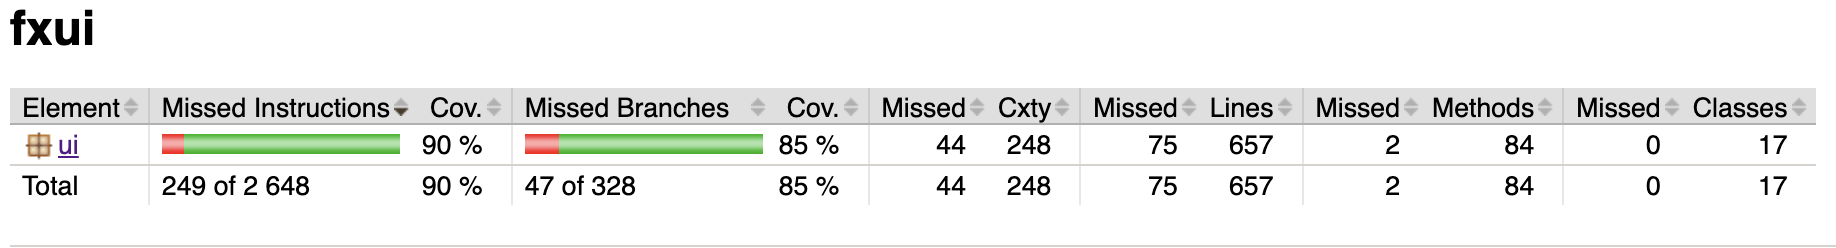
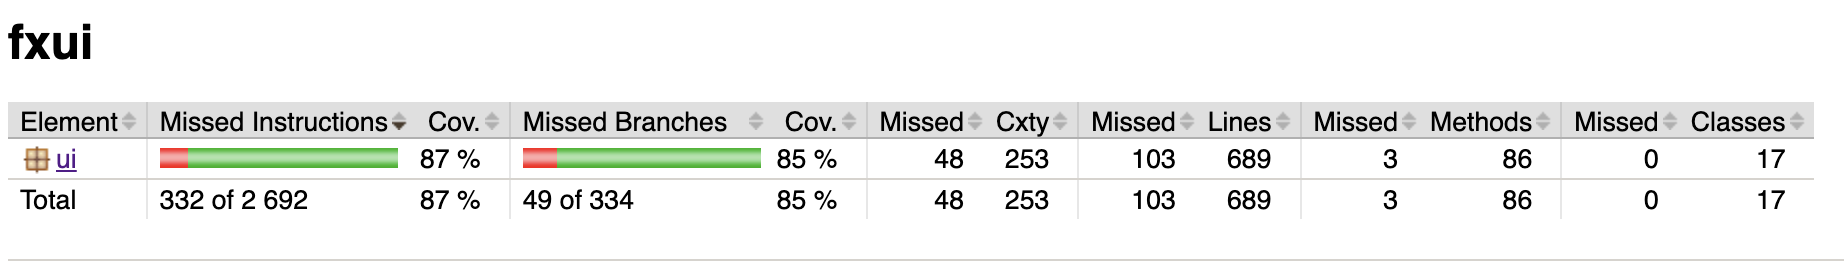
docs(): Correct and revise documentation.
The documentation needed to be revised since changes has been done since we first started writing them. This is part of our final clean up of the project.

#136

diff --git a/docs/release_3/teamwork.md b/docs/release_3/teamwork.md
@@ -2,26 +2,22 @@
 
 ## Planning and Coordination Throughout the Project
 
-At the start of our project, our planning wasn't great. We created issues that were too small, which made many tasks depend on each other. This sometimes slowed us down because we'd get stuck waiting for someone else to finish their part before we could continue. Over time, we learned to group related tasks together and think more carefully about dependencies, which made our workflow much smoother.
+At the start, our planning wasn’t ideal. We created issues that were too small, causing many dependencies and slowing progress as we often had to wait for others to finish. Over time, we learned to group related tasks and plan dependencies better, which made our workflow smoother.
 
-We also learned how important it is to write good issue and pull request descriptions. At first, we didn't see the point, but we quickly realized that clear descriptions help us work much more efficiently. We don't have to constantly ask each other what needs to be done or what's already finished, especially when we're working from different places. We even created templates for issues and pull requests to keep everything consistent.
+We also realized how important clear issue and pull request descriptions are. Initially, we didn’t prioritize them, but soon saw how they improved efficiency and reduced confusion, especially when working remotely. To stay consistent, we created templates for both.
 
-Our team works much better when we organize tasks around pair programming. This approach is really effective for our group because when we work together, we can help each other solve problems and write better code. We also understand the code better since two people work on each part.
+Pair programming proved highly effective for us. Working in pairs helped solve problems faster, improved code quality, and deepened our understanding of the system since two people shared responsibility for each part.
 
-We now meet twice a week to stay coordinated and plan what's coming next. As the project got bigger, it became harder to keep track of all the files and components. We found that writing better JavaDoc comments helped a lot. We also started having each pair give a quick update about what they've accomplished at the start of our meetings. This way, when we're assigning new tasks, we don't waste time trying to figure out what everyone else has been working on. Between meetings, we use Messenger for quick questions and updates.
+We now meet twice a week to plan and stay aligned. As the project grew, tracking all files and components became challenging, so we improved our JavaDoc comments. Each pair now gives a short update during meetings, keeping everyone informed and simplifying task assignment. Between meetings, we use Messenger for quick questions and updates.
 
 ## Key Learnings from Our Experience
 
-The biggest thing we learned is that good communication is absolutely essential. When we don't communicate well, everything becomes much harder.
+Good communication is essential; when it breaks down, everything slows.
+We learned to size tasks appropriately; issues that are too small create unnecessary dependencies, while grouping related ones improves efficiency.
 
-Breaking down tasks into the right size is crucial. We learned that making issues too small creates unnecessary dependencies and slows down development. Grouping related tasks together and planning dependencies carefully makes the workflow much more efficient.
+Clear documentation saves time and prevents misunderstandings. Using templates, writing good descriptions, and maintaining JavaDoc comments keep everyone aligned.
 
-Good documentation makes a huge difference. Writing clear issue and pull request descriptions, using templates for consistency, and maintaining proper JavaDoc comments saves us tons of time and prevents confusion, especially when working remotely.
+Pair programming reduces mistakes, increases learning, and keeps work flowing.
+Structured meeting updates ensure visibility, while regular meetings and casual communication complement each other.
 
-Pair programming is way better than working alone. We get stuck less often, make fewer mistakes, and learn more from each other.
-
-Having structured updates during meetings is really valuable. When each pair quickly presents what they've accomplished, it keeps everyone informed and makes task delegation much faster.
-
-We found that having regular meetings plus casual communication throughout the week works really well. The meetings keep us organized, and Messenger helps us solve small problems quickly.
-
-This project taught us that good teamwork needs planning, regular communication, and being willing to change how we work when we find better ways to do things.
+Overall, we learned that effective teamwork depends on thoughtful planning, clear communication, and adapting our workflow when better methods emerge.

diff --git a/docs/release_3/release_3.md b/docs/release_3/release_3.md
@@ -79,7 +79,7 @@ Our development approach continued to emphasize pair programming and regular com
 
 ## Code Quality Report
 
-As of this release, the project maintains exceptionally high code quality standards through enhanced tools and practices. For detailed information about our code quality approach, see our [Code Quality](code_quality.md) documentation.
+As of this release, the project maintains high code quality standards through enhanced tools and practices. For detailed information about our code quality approach, see our [Code Quality](code_quality.md) documentation.
 
 Key quality measures include:
 
@@ -119,29 +119,34 @@ The UML documentation provides comprehensive visual representations of the appli
 
 Due to the extensive number of classes across the project, we have organized the class diagrams by module to provide clear, focused views of each architectural layer. Each diagram shows the classes, their attributes and methods, and the relationships between them within that specific module.
 
-The class diagrams follow UML conventions where `+` indicates public visibility, `-` indicates private visibility, and `#` indicates protected visibility. Solid arrows show dependencies and associations, while dashed arrows show interface implementations or usage relationships.
+The class diagrams follow UML conventions where `green cicle` indicates public visibility, `red square` indicates private visibility, and `red filled square` indicates protected visibility. Solid arrows show dependencies and associations, while dashed arrows show interface implementations or usage relationships.
 
 **core**
+
 ![core module class diagram](uml_documentation/screenshots/class_core.png)
 
 The core module contains the fundamental domain models including `Flashcard`, `FlashcardDeck`, `FlashcardDeckManager`, and authentication-related classes like `User`, `UserData`, `LoginValidator`, and `PasswordEncoder`.
 
 **fxui**
+
 ![fxui module class diagram](uml_documentation/screenshots/class_fxui.png)
 
 The fxui module shows all JavaFX controllers and the `ApiClient` that handles REST API communication. This includes controllers for login, signup, main view, deck management, and flashcard learning.
 
 **server**
+
 ![server module class diagram](uml_documentation/screenshots/class_server.png)
 
 The server module illustrates the Spring Boot REST API structure with controllers (`UserController`, `DeckController`, `FlashcardController`) and services (`UserService`, `DeckService`, `FlashcardService`) that implement the business logic.
 
 **shared**
+
 ![shared module class diagram](uml_documentation/screenshots/class_shared.png)
 
 The shared module contains all Data Transfer Objects (DTOs) used for client-server communication, mapper classes for converting between domain objects and DTOs, and API constants and endpoints.
 
 **storage**
+
 ![storage module class diagram](uml_documentation/screenshots/class_storage.png)
 
 The storage module shows the `FlashcardPersistent` class which implements the `UserPersistence` interface and handles JSON-based file storage for user data and flashcards.
@@ -160,6 +165,8 @@ The architecture diagram provides a high-level overview of the system's structur
 
 The sequence diagram illustrates the process that occurs when a user creates a new deck in the application. It shows the chronological order of method calls between objects across different layers of the system:
 The JavaFX controller initiates a request through the ApiClient, which communicates with the REST API (DeckController). The API then uses the DeckService and FlashcardPersistent components to store the new deck in the underlying data storage. Finally, the updated list of decks is retrieved and returned to the client so the user interface can be refreshed.
+
+We deliberately chose not to include an alt (alternative flow) section in our sequence diagram. The purpose of this diagram is to clearly illustrate the main success scenario of the user story, the process of successfully creating a new deck. Including alternative or error-handling paths would have made the diagram significantly more complex and harder to read. Therefore we prioritized a simplified view. The alternative cases (such as failed API calls or invalid input) are still handled in the actual implementation and corresponding test cases but are not shown here to keep the diagram focused and easy to interpret.
 
 ### Package diagram
 

diff --git a/docs/release_3/ai_tools.md b/docs/release_3/ai_tools.md
@@ -2,7 +2,7 @@
 
 ## Our Approach to AI in Development
 
-We used AI as a supportive tool to enhance learning, productivity, and code quality rather than replace our own coding. Most code was written manually, but AI helped with guidance, troubleshooting, and best practices. **GitHub Copilot (Claude Sonnet 4.0)** assisted with dependency management, Maven configuration, testing, generated Javadoc documentation, and bug fixing. **ChatGPT** supported project setup, Java syntax, and GitHub conventions. **Claude AI** improved test organization and configured JaCoCo for coverage reporting. Together, these tools enhanced our workflow and learning throughout the project.
+We used AI as a supportive tool to enhance learning, productivity, and code quality rather than replace our own coding. Most code was written manually, but AI helped with guidance, troubleshooting, and best practices. **GitHub Copilot (Claude Sonnet 4.0)** assisted with dependency management in pom.xml files, Maven configuration, testing, generated Javadoc documentation, and bug fixing. **ChatGPT** supported project setup, Java syntax, and GitHub conventions. **Claude AI** improved test organization and configured JaCoCo for coverage reporting. We also used this to set up JLink and JPackage correctly, since none of the teammembers had experience with these technologies. Together, these tools enhanced our workflow and learning throughout the project.
 
 ## Classes we have used ai in:
 
@@ -11,9 +11,7 @@ We used AI as a supportive tool to enhance learning, productivity, and code qual
 - `PasswordEncoderTest`: Used claude.ai verifying password encoding and matching functionality using JUnit 5. 
 
 **Fxui**
-- `Flashcardcontroller`
-    - `updateprogress()` and `updateUi()`: AI assisted with correct syntax. 
-    - `flipCard()`: AI guided implementation of card rotation. 
+- `Flashcardcontroller` : AI helped correct event-handling syntax and structure methods like `updateUi()` and `flipCard()` for UI updates. In `flipCard()` it was the card rotation functionality we struggled with, where **GitHub Copilot** came to good use. 
 - `FlashcardDeckController`
     - `whenCreateButtonIsClicked()`,  `whenDeleteCardButtonIsClicked()` and `loadDeckData()`: AI helped handle API endpoints and correct syntax. 
 - `ApiClientTest`: AI provided guidance on writing correct tests for API handling. 
@@ -21,17 +19,17 @@ We used AI as a supportive tool to enhance learning, productivity, and code qual
 
 **Server**
 - `UserController`
-    - `loginUser()`: GitHub Copilot generated the method, helping us understand the required login logic.
+    - `loginUser()`: **GitHub Copilot** suggested initial login logic and validation patterns.
 - `DeckControllerTest`, `FlashcardControllerTest`, `UserControllerTest`: Claude AI assisted in comprehensive test coverage.
 - `FlashcardServiceTest` and `UserServiceTest`:
     - `testGetFlashcard()`, `testGetFlashcardThrows()` and `testCreateUserWithValidation()`: AI assisted in generating tests for thorough coverage and handling mocking. 
 
 **Shared**
-- `UserMapper`: AI was used to assist in implementing the complex UserMapper code, helping with difficult logic. 
+- `UserMapper`: AI was used to assist in implementing the complex UserMapper code, by clarifying complex mapping between domain and DTO objects. 
 - `FlashcardDeckMapperTest`, `FlashcardMapperTest`, `UserMapperTest`: AI assisted with generating tests and handling mapper syntax for tests.
 
 **Storage**
 - `Flashcardpersistent`:
     - `readUserDataInternal()` and `writeUserDataInternal()`: AI guided logic for reading and writing to user data. 
 - `FlashcardPersistentTest`: 
-    - `cleanup()`: AI helped efficiently handle deletion of multiple test user files. 
+    - `cleanup()` : AI helped efficiently handle deletion of multiple test user files. 

diff --git a/docs/release_3/sustainability.md b/docs/release_3/sustainability.md
@@ -88,8 +88,8 @@ Each user has their own file (like `julie.json`):
       {
         "deckName": "Spanish Vocabulary",
         "flashcards": [
-          {"number": 1, "question": "Hello", "answer": "Hola"},
-          {"number": 2, "question": "Goodbye", "answer": "Adiós"}
+          { "number": 1, "question": "Hello", "answer": "Hola" },
+          { "number": 2, "question": "Goodbye", "answer": "Adiós" }
         ]
       }
     ]
@@ -107,7 +107,7 @@ CREATE TABLE users (
     password VARCHAR(255)
 );
 
--- Decks table  
+-- Decks table
 CREATE TABLE decks (
     id INT PRIMARY KEY,
     user_id INT,
@@ -188,6 +188,27 @@ Instead of everything in one JavaFX app, we split it:
 - Use full-screen mode on laptop for better focus
 - Switch between devices and pick up where they left off
 - App automatically adapts to their screen size and device type
+
+## SUAS Analysis
+
+The Sustainability Awareness Diagram below maps how our decisions when making the app create ripple effects across social, economic, environmental, technical and individual dimensions. This analysis helps us understand both the positive impacts we want to maximize and the negative consequences we need to mitigate as we scale.
+
+<img src="../../images/sustainability/susAd.png" alt="SUAS Sustainability Analysis Diagram" width="600">
+
+
+
+| ID  | Effect                                                                      | Sustainability Dimension | Level     | Affects    | Affected by |
+| --- | --------------------------------------------------------------------------- | ------------------------ | --------- | ---------- | ----------- |
+| 1   | Limited cross-device compatibility                                          | Technical                | Immediate | 3          |             |
+| 2   | Scalable educational content delivery platform                              | Technical                | Immediate | 4, 5, 6, 8 |             |
+| 3   | Lack of universal design principle                                          | Social                   | Immediate |            | 1           |
+| 4   | Accessible learning for everyone                                            | Social                   | Systemic  |            | 2           |
+| 5   | Higher costs for database migration and new infrastructure                  | Economic                 | Enabling  |            | 2           |
+| 6   | Potential advertising revenue with low expenses                             | Economic                 | Enabling  |            | 2           |
+| 7   | Reduced paper consumption and transportation needs through digital learning | Environmental            | Systemic  |            |             |
+| 8   | Increased energy use from servers and devices                               | Environmental            | Enabling  |            | 2           |
+| 9   | Mental health and mastery through learning progress                         | Individual               | Enabling  |            | 10          |
+| 10  | Improved learning efficiency through spaced repetition technique            | Individual               | Enabling  | 9          |             |
 
 ## Conclusion
 

diff --git a/docs/release_3/rest_api_documentation.md b/docs/release_3/rest_api_documentation.md
@@ -8,6 +8,37 @@ This documentation provides a comprehensive overview of all API endpoints, inclu
 
 The REST API allows secure interaction with various application features, including user authentication, deck management, and flashcard operations. Each endpoint is documented with clear specifications on required parameters, request bodies, and response types. Following this documentation will ensure correct and secure usage of the API.
 
+## Table of content
+
+- [API Documentation](#api-documentation)
+  - [Introduction](#introduction)
+    - [Purpose](#purpose)
+  - [Table of content](#table-of-content)
+  - [Base URL](#base-url)
+  - [Response Format](#response-format)
+  - [User Management API](#user-management-api)
+    - [POST /api/v1/users/register](#post-apiv1usersregister)
+    - [POST /api/v1/users/login](#post-apiv1userslogin)
+    - [GET /api/v1/users](#get-apiv1users)
+    - [GET /api/v1/users/find](#get-apiv1usersfind)
+    - [POST /api/v1/users/validate-password](#post-apiv1usersvalidate-password)
+    - [User Management Error Handling](#user-management-error-handling)
+  - [Deck Management API](#deck-management-api)
+    - [GET /api/v1/decks](#get-apiv1decks)
+    - [GET /api/v1/decks/{deckName}](#get-apiv1decksdeckname)
+    - [POST /api/v1/decks/{deckName}](#post-apiv1decksdeckname)
+    - [DELETE /api/v1/decks/{deckName}](#delete-apiv1decksdeckname)
+    - [PUT /api/v1/decks](#put-apiv1decks)
+    - [Deck Management Error Handling](#deck-management-error-handling)
+  - [Flashcard Management API](#flashcard-management-api)
+    - [POST /api/v1/flashcards/create](#post-apiv1flashcardscreate)
+    - [GET /api/v1/flashcards/get](#get-apiv1flashcardsget)
+    - [GET /api/v1/flashcards/get-all](#get-apiv1flashcardsget-all)
+    - [DELETE /api/v1/flashcards/delete](#delete-apiv1flashcardsdelete)
+    - [Flashcard Management Error Handling](#flashcard-management-error-handling)
+  - [General Error Handling](#general-error-handling)
+  - [Security Considerations](#security-considerations)
+
 ## Base URL
 
 ```bash
@@ -81,6 +112,7 @@ Register a new user by creating an account with a username and password.
 - **400 BAD REQUEST**: The request format was invalid or validation failed.
 
   - "Username requirements not met:"
+
     - "Username 'johndoe' is already taken"
     - "Username cannot be empty"
 

diff --git a/docs/release_3/contribution.md b/docs/release_3/contribution.md
@@ -22,9 +22,11 @@ Early in the project, he set up the initial FlashcardController and UI component
 
 Isa took responsibility for implementing the server's business logic layer, developing all three service classes (UserService, DeckService, and FlashcardService) that handle core application operations. These services manage the logic between the REST controllers and the persistence layer, ensuring proper data validation and business rule enforcement.
 
-In the shared module, Isa contributed to all DTO classes and developed key API utilities including ApiResponse, ApiEndpoints, and ApiConstants, establishing consistent communication patterns across the application. She also wrote comprehensive test suites for the core module, covering all fundamental classes including Flashcard, FlashcardDeck, FlashcardDeckManager, User, UserData, LoginValidator, and PasswordEncoder.
+In the shared module, Isa contributed to all DTO classes and developed key API utilities including ApiResponse, ApiEndpoints, and ApiConstants, establishing consistent communication patterns across the application. She also wrote comprehensive test suites for the core module, covering all fundamental classes.
 
 Early in the project, Isa set up the initial FlashcardController and UI components, establishing the foundation for the JavaFX interface. She also contributed to project documentation and created system diagrams to illustrate the application's architecture and design.
+
+Beyond her technical contributions, Isa brought valuable perspective to our team dynamics. She consistently encouraged us to pause and think critically about our solutions, preventing rushed implementations and ensuring we chose the optimal approach for each challenge. This thoughtful approach significantly improved our code quality and architectural decisions.
 
 ## Maren Nodenes-Fimland
 

diff --git a/README.md b/README.md
@@ -286,7 +286,7 @@ After running `mvn test`, you can generate test coverage reports via JaCoCo:
 //todo: remember to update these
 
 - **core**: Instruction Coverage: 88% | Branch Coverage: 92%
-- **fxui**: Instruction Coverage: 90% | Branch Coverage: 85%
+- **fxui**: Instruction Coverage: 87% | Branch Coverage: 85%
 - **shared**: Instruction Coverage: 98% | Branch Coverage: 87%
 - **server**: Instruction Coverage: 92% | Branch Coverage: 92%
 - **storage**: Instruction Coverage: 98% | Branch Coverage: 87%
